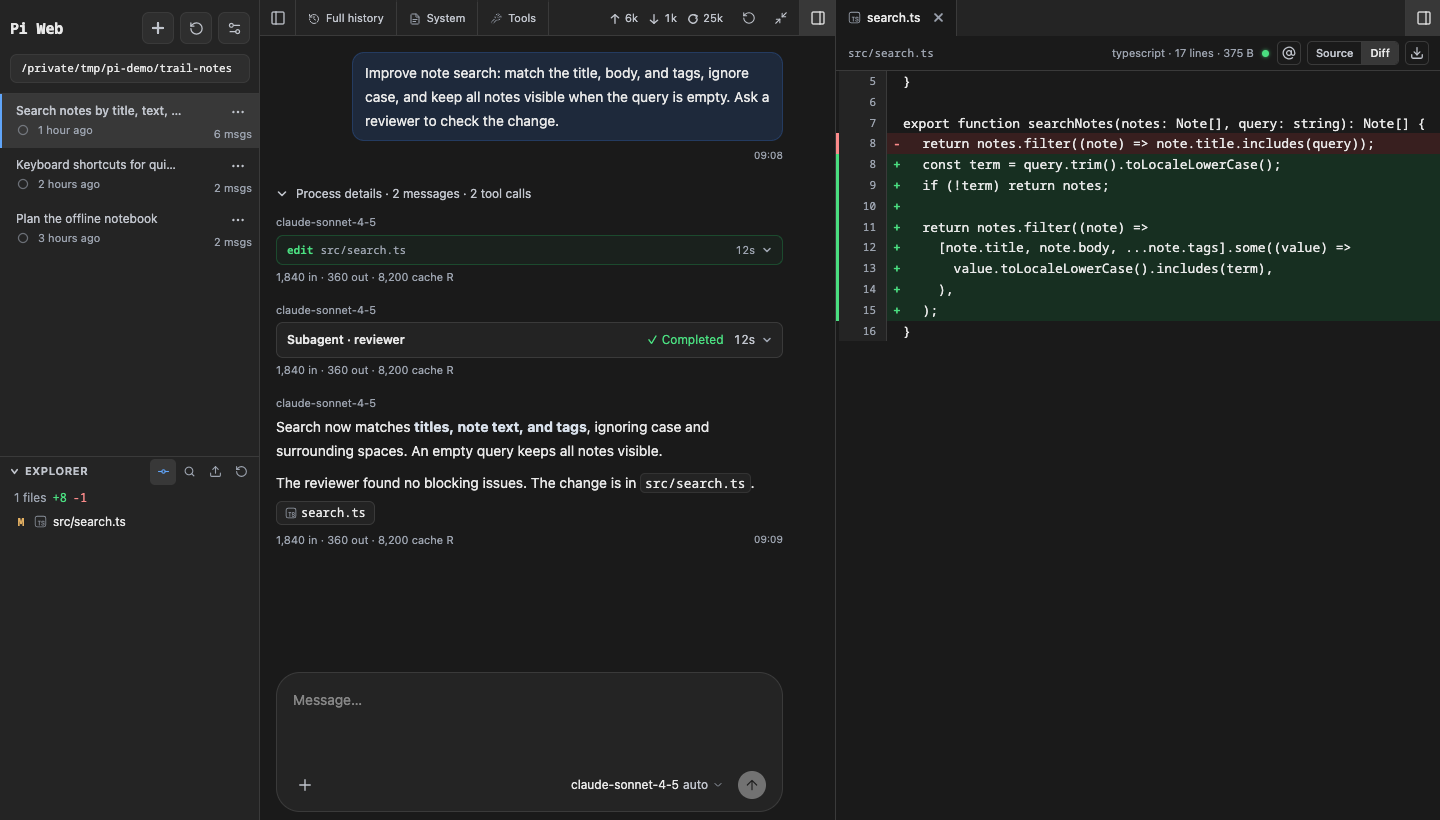
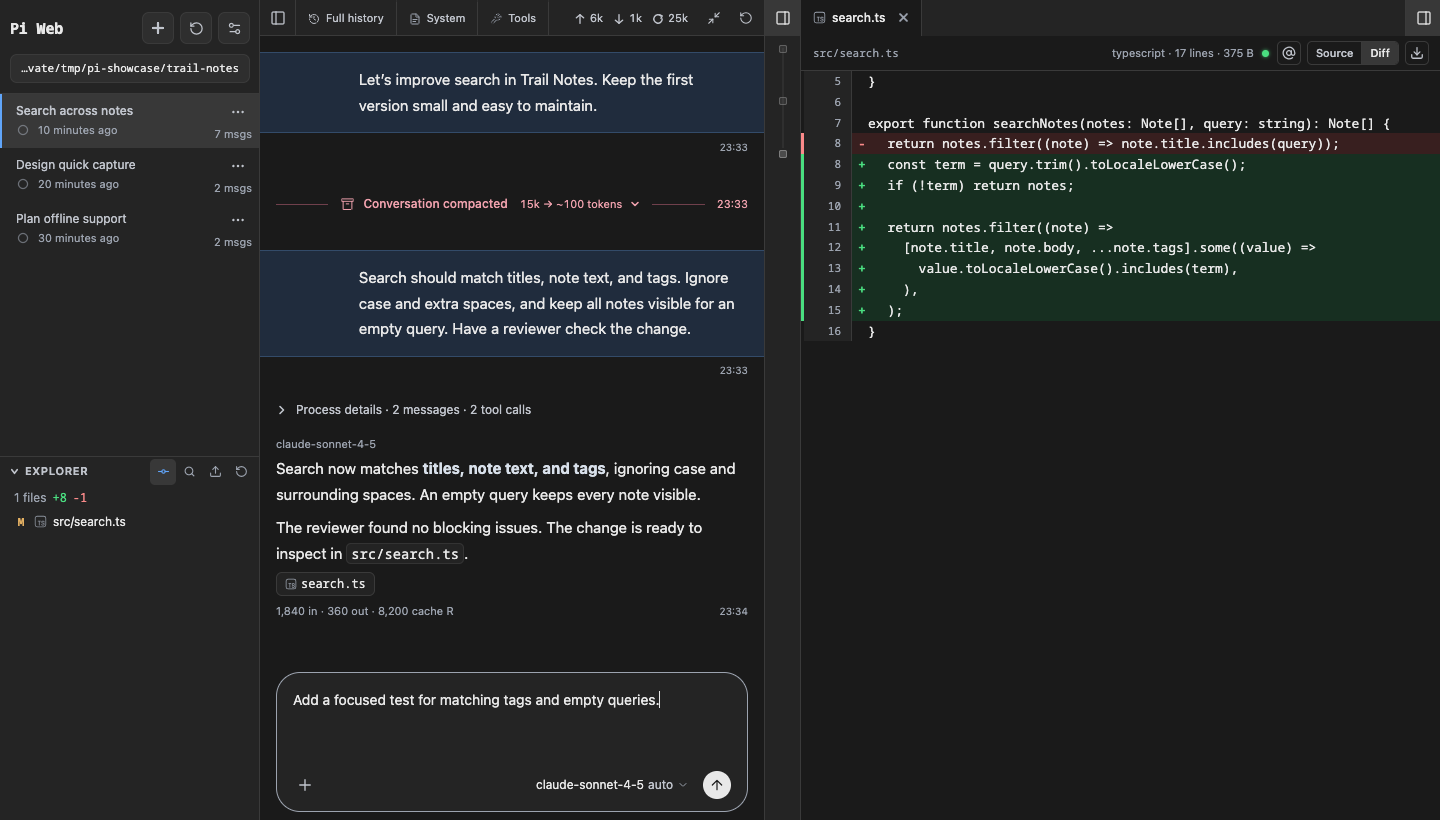
Refresh README with a visual product tour

diff --git a/README.md b/README.md
@@ -1,20 +1,50 @@
 # Pi Web
 
-**A local workspace for Pi, built for clarity and responsiveness.**
+**Your Pi conversations, project files, and changes in one clear workspace.**
 
-Pi Web puts your [Pi coding agent](https://github.com/earendil-works/pi) conversations, project files, and changes in one browser window. Follow the agent's work, inspect a diff beside its explanation, and pick up an existing session. It uses the Pi configuration and session files already on your computer, so you can move between the terminal and browser without importing conversations or maintaining a second set of settings.
+Read the answer. Open the diff beside it. Follow up while the details are still in view. Pi Web gives your [Pi coding agent](https://github.com/earendil-works/pi) a browser workspace built around the conversation and the work it produces.
 
-![Pi Web in dark mode, with session history, agent tool calls, and a working-tree diff beside the conversation](./docs/images/file-diff.png)
+It uses the Pi configuration and session files already on your computer. Pick up a terminal session in the browser, choose a model, and keep going without importing conversations or maintaining a second set of settings.
 
-*Review the change beside the conversation. Screenshots show the current UI with fictional demo sessions in a local example project.*
+**[Get started](#get-started)** · [Explore the interface](#look-closer)
+
+![Pi Web in dark mode with grouped sessions, distinct user messages, a compaction divider, and a working-tree diff beside the answer](./docs/images/file-diff.png)
+
+*Review the change in context, with the next request ready in the composer. All screenshots use the current UI with fictional sessions in a local example project.*
 
 ## Why Pi Web
 
 - **Little magic.** Pi's session files stay authoritative. Live turns run through Pi's SDK in the server process, and tools and orchestration come from Pi and your extensions. The browser gives you access to that work without adding another agent system.
-- **Care in the details.** Process details fold away when you want the answer. Tool output, diffs, and subagent results have their own views. Model and reasoning controls sit in the composer; history, context, and files stay within reach.
+- **Care in the details.** Your messages stand out, compaction appears as a quiet divider, and process details fold away when you want the answer. Tool output, diffs, and subagent results have their own views. Model and reasoning controls sit in the composer; history, context, and files stay within reach.
 - **Work only when needed.** Browsing saved sessions does not start an agent. The session list reads bounded metadata, conversation history loads progressively, and live updates stream to the browser. This avoids agent startup just to browse and limits how much history the browser has to render at once.
 
 This is a personalized fork of [agegr/pi-web](https://github.com/agegr/pi-web), shaped around its maintainer's daily workflow. It is not intended to stay compatible with upstream.
+
+## Look closer
+
+### Follow the work at your own pace
+
+Expand process details to inspect a tool call or a subagent's result. Prompts, run details, and raw output stay available behind their own disclosures, so you can go deeper without losing your place.
+
+![Expanded subagent review in dark mode, showing completion status, a readable result, and disclosures for the prompt, run details, and raw data](./docs/images/session-tools.png)
+
+*Subagent tools come from your installed Pi extensions. Pi Web gives their results a place in the conversation.*
+
+### Make room for the idea
+
+Tables, highlighted code, and Mermaid previews make plans easier to read and discuss. Switch a diagram between source and preview in place. Choose light, dark, or system appearance to suit your workspace.
+
+![Pi Web in light mode with a notebook plan, a formatted feature table, and an inline Mermaid diagram](./docs/images/conversation-light.png)
+
+### Keep the conversation close
+
+On a small screen, the conversation takes the space it needs. Session and file controls remain within reach, message actions stay visible, and the composer keeps model and reasoning choices together. Install Pi Web as a PWA for an app window of its own.
+
+<p align="center">
+  <img src="./docs/images/mobile.png" width="360" alt="Pi Web's mobile layout with distinct user messages, the red compaction divider, collapsed process details, and the composer" />
+</p>
+
+*The mobile layout, shown in browser emulation. Pi Web still runs on your host computer; see [Security](#security) before making it reachable from another device.*
 
 ## What you can do
 
@@ -25,19 +55,6 @@ This is a personalized fork of [agegr/pi-web](https://github.com/agegr/pi-web), 
 - Select existing working folders and Git worktrees from one project picker. A session remains readable even if its original folder no longer exists.
 - Manage Pi skills and plugin packages for the global scope or a trusted project. Choose between Chat only, Read only, Default, and Full tool presets.
 - Install Pi Web as a PWA and receive browser notifications when a task finishes or an extension needs input.
-
-![Expanded subagent review with completion status, formatted results, and disclosures for the prompt, run details, and raw data](./docs/images/session-tools.png)
-
-*Inspect a subagent's result, then open its prompt, run details, or raw output. Subagent tools come from your installed Pi extensions.*
-
-<details>
-<summary>Appearance and settings</summary>
-
-![Pi Web in light mode with appearance, context-warning threshold, tool presets, and completion sound settings](./docs/images/settings.png)
-
-*Settings keep common controls together; project skills and plugins load only after you trust the project.*
-
-</details>
 
 ## Get started
 
